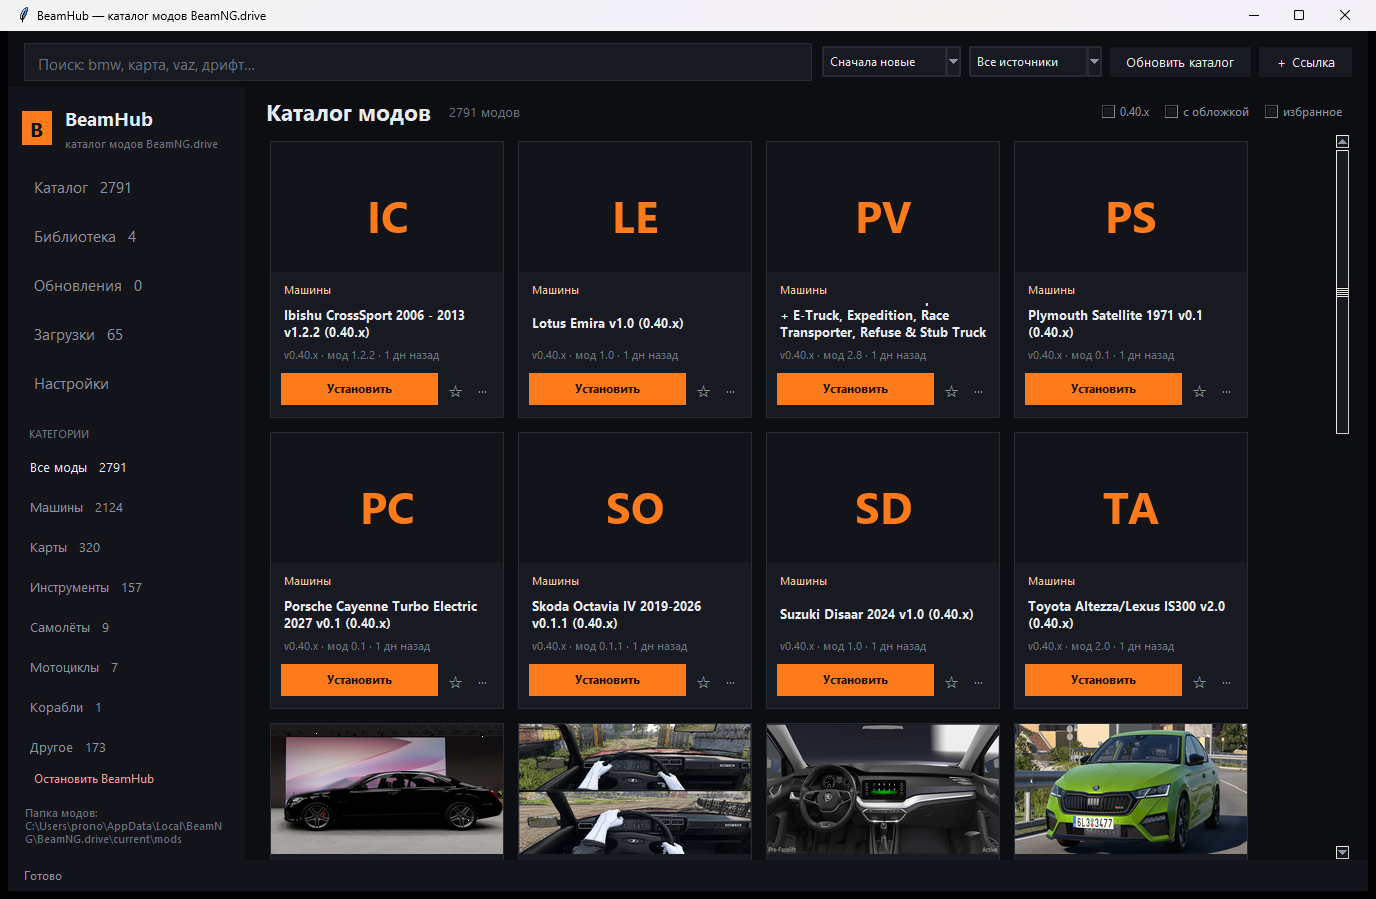
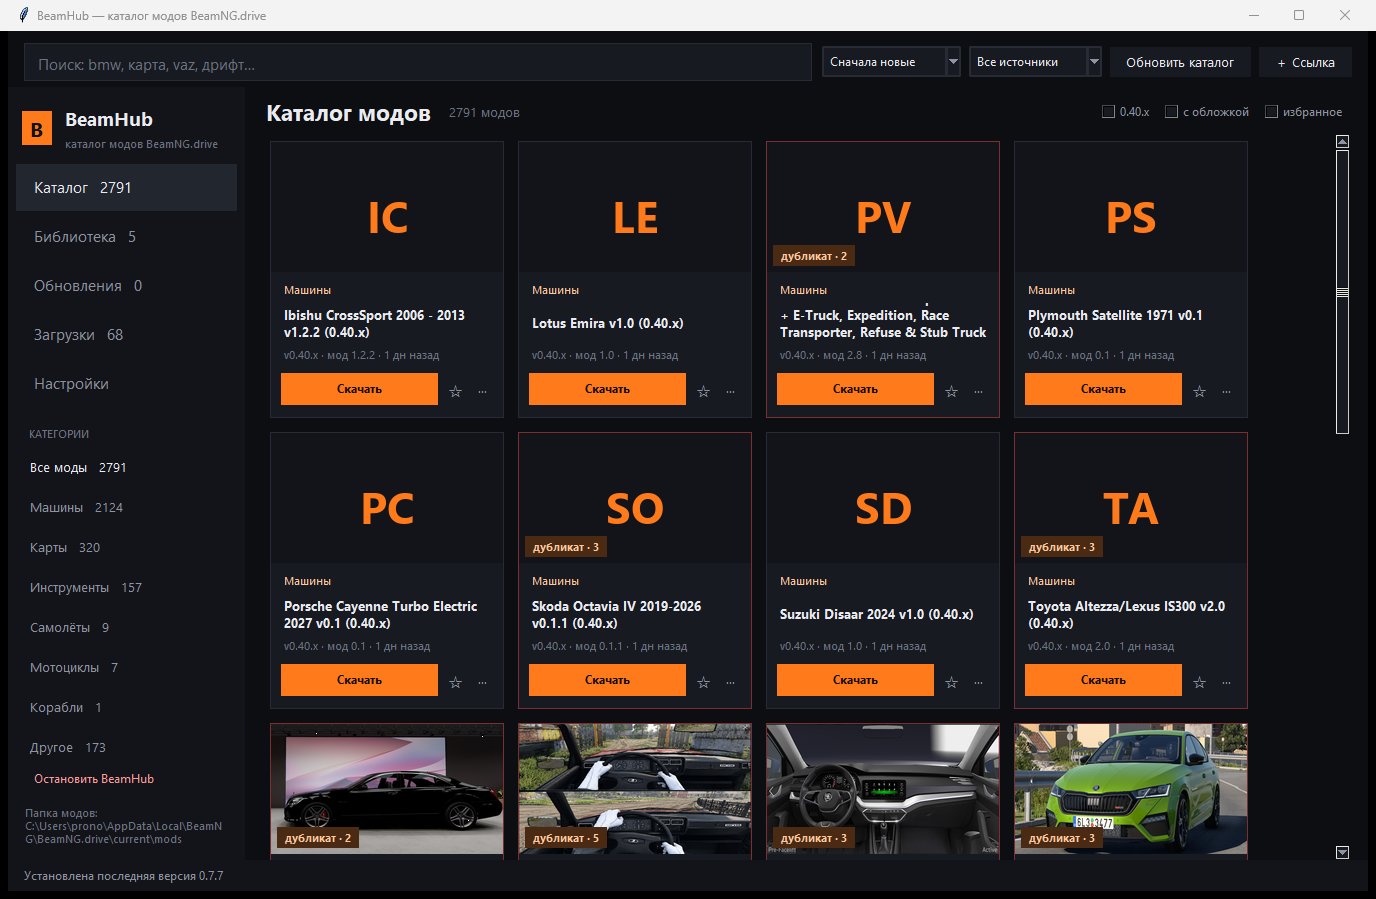
BeamHub 0.7.7: честные формулировки — кнопка Скачать, скачивание идёт браузером

diff --git a/web/app.js b/web/app.js
@@ -90,7 +90,7 @@ function card(item) {
   body.appendChild(meta);
 
   const actions = el('div', 'card-actions');
-  const installBtn = el('button', 'btn small', item.installed ? 'Установить снова' : 'Установить');
+  const installBtn = el('button', 'btn small', item.installed ? 'Скачать снова' : 'Скачать');
   installBtn.dataset.role = 'install';
   installBtn.addEventListener('click', () => installMod(item, installBtn));
   const detailsBtn = el('button', 'icon-btn', 'i');
@@ -175,7 +175,7 @@ function markInstalled(id) {
       node.querySelector('.card-img')?.appendChild(badge);
     }
     const button = node.querySelector('[data-role="install"]');
-    if (button) { button.disabled = false; button.textContent = 'Установить снова'; }
+    if (button) { button.disabled = false; button.textContent = 'Скачать снова'; }
     const details = node.querySelector('.icon-btn');
     if (details) details.disabled = false;
   });
@@ -203,7 +203,7 @@ async function openDetails(id) {
         </div>
         <div class="modal-desc">${esc(item.description || 'Описание на странице мода.')}</div>
         <div class="modal-actions">
-          <button class="btn" id="m-install">Установить</button>
+          <button class="btn" id="m-install">Скачать</button>
           <button class="btn ghost" id="m-page">Открыть страницу</button>
         </div>
       </div>`;
@@ -283,7 +283,7 @@ async function loadInbox() {
         row.valid ? (row.kind === 'maps' ? 'карта' : row.kind === 'cars' ? 'машина' : 'мод') : 'не мод');
       node.appendChild(kindPill);
       const actions = el('div', 'row-actions');
-      const install = el('button', 'btn small', 'Установить');
+      const install = el('button', 'btn small', 'Скачать');
       install.disabled = !row.valid;
       install.addEventListener('click', async () => {
         install.disabled = true;

diff --git a/core/tkui.py b/core/tkui.py
@@ -422,7 +422,7 @@ class App:
 
         actions = tk.Frame(card, bg=PANEL)
         actions.pack(fill="x", padx=10, pady=(8, 10))
-        text = "Установлен" if item.get("installed") else "Установить"
+        text = "Установлен" if item.get("installed") else "Скачать"
         button = tk.Button(actions, text=text, bg=ACCENT, fg="#1a0f04", relief="flat",
                            font=("Segoe UI", 9, "bold"), cursor="hand2",
                            activebackground="#ff9350", command=lambda i=item, b=None: self.install(i))
@@ -561,7 +561,7 @@ class App:
 
         buttons = tk.Frame(window, bg=BG)
         buttons.pack(fill="x", padx=18, pady=(0, 16))
-        tk.Button(buttons, text="Установить", bg=ACCENT, fg="#1a0f04", relief="flat",
+        tk.Button(buttons, text="Скачать", bg=ACCENT, fg="#1a0f04", relief="flat",
                   font=("Segoe UI", 10, "bold"), padx=18, pady=6, cursor="hand2",
                   command=lambda: self.install(item)).pack(side="left")
         tk.Button(buttons, text="Открыть страницу", bg=PANEL, fg=TEXT, relief="flat",

diff --git a/app.py b/app.py
@@ -641,7 +641,8 @@ class Handler(BaseHTTPRequestHandler):
             return
         open_in_browser(url)
         self._json({"ok": True, "mode": "browser", "opened": url,
-                    "message": "Открыл браузер. Как только архив докачается, BeamHub поставит его сам."})
+                    "message": "Открыл страницу мода в браузере. Нажми там «Скачать» — "
+                               "как только архив докачается, BeamHub поставит его сам."})
 
 
 # ---------------------------------------------------------------- startup

diff --git a/core/version.py b/core/version.py
@@ -1,6 +1,6 @@
 """Единственный источник версии приложения."""
 
-VERSION = "0.7.6"
+VERSION = "0.7.7"
 APP_NAME = "BeamHub"
 
 

diff --git a/README.md b/README.md
@@ -2,7 +2,7 @@
 
 # BeamHub — лаунчер-каталог модов для BeamNG.drive
 
-**Один каталог вместо десяти вкладок с файлообменниками.** Ищешь мод, жмёшь «Установить» — BeamHub сам скачивает архив, проверяет его и кладёт в папку игры.
+**Один каталог вместо десяти вкладок с файлообменниками.** Находишь мод, жмёшь «Скачать» — открывается страница мода, архив качает браузер (сайты не отдают файлы скриптам), а BeamHub подхватывает его из «Загрузок», проверяет и кладёт в папку игры. Дальше — библиотека, включение/выключение и проверка обновлений.
 
 [![Release](https://img.shields.io/github/v/release/Owiom/beamhub?style=flat-square)](https://github.com/Owiom/beamhub/releases/latest)
 [![Downloads](https://img.shields.io/github/downloads/Owiom/beamhub/total?style=flat-square)](https://github.com/Owiom/beamhub/releases)
@@ -21,7 +21,7 @@
 | **2791 мод с четырёх сайтов** | modsgaming.ru, playground.ru, beamngland.com, beamngmods.net — в одном каталоге |
 | **Категории и сортировки** | машины, карты, инструменты, самолёты, мотоциклы; новые, по названию, по размеру, по популярности |
 | **Поиск** | по названию, описанию и автору, с фильтрами «0.40.x», «с обложкой», «избранное» |
-| **Установка в один клик** | архив скачивается, проверяется и попадает в `mods` игры; дубликаты по хешу не ставятся |
+| **Скачал — дальше само** | жмёшь «Скачать», браузер получает архив, BeamHub подхватывает его из «Загрузок», проверяет и кладёт в `mods`; дубликаты по хешу не ставятся |
 | **Дубликаты** | один и тот же мод с разных сайтов помечается прямо в каталоге, в библиотеке — красной строкой |
 | **Уже установленные моды** | библиотека сканирует папку игры и привязывает старые моды к каталогу по названию и размеру — для них тоже работают обновления |
 | **Обновление на месте** | новая версия заменяет старый файл, а не добавляет второй |
@@ -58,7 +58,7 @@ Python и ничего больше ставить не нужно: внутри
 
 ## Как это работает
 
-1. Жмёшь **«Установить»** на карточке.
+1. Жмёшь **«Скачать»** на карточке — открывается страница мода в браузере.
 2. Открывается страница мода в браузере — сайты отдают файл только после проверки Cloudflare, обойти её нельзя. Нажимаешь там «Скачать».
 3. BeamHub слушает папку загрузок: увидел новый `.zip` — проверил структуру (`levels/`, `vehicles/`, `info.json`), срезал лишнюю обёртку, посчитал хеш и положил в папку игры.
 4. В строке состояния — «Установлено: …», мод сразу в библиотеке.

diff --git a/PROMO.md b/PROMO.md
@@ -13,7 +13,7 @@
 **Description** (Settings → General → Description):
 
 ```
-Каталог модов для BeamNG.drive: 2791 мод с четырёх сайтов, установка в один клик, библиотека, обновления. Windows, .exe
+Каталог модов для BeamNG.drive: 2791 мод с четырёх сайтов, установка без ручного распаковывания, библиотека, обновления. Windows, .exe
 ```
 
 **Topics** (Settings → Topics, копируй списком):
@@ -75,7 +75,8 @@ beamng beamngdrive beamng-drive mods mod-manager launcher mod-catalog gaming-too
 >
 > - ~2800 mods from modsgaming.ru, playground.ru, beamngland.com, beamngmods.net
 > - categories, search, filters by game version, favorites, duplicate detection
-> - one click → archive is validated, repacked if needed, placed into the mods folder
+> - install: you press Download, the browser fetches the file, the app validates the
+>   archive, repacks it if needed and places it into the mods folder
 > - library with enable/disable/delete and "update available" badges
 > - portable exe, MIT, source on GitHub: https://github.com/Owiom/beamhub
 >
@@ -94,7 +95,7 @@ beamng beamngdrive beamng-drive mods mod-manager launcher mod-catalog gaming-too
 
 **Короткий текст:**
 
-> Сделал каталог-лаунчер модов для BeamNG: 2791 мод с четырёх сайтов, установка в один клик,
+> Сделал каталог-лаунчер модов для BeamNG: 2791 мод с четырёх сайтов, скачал — и мод уже стоит,
 > библиотека и поиск дубликатов. Portable exe, MIT, без регистрации.
 > https://github.com/Owiom/beamhub — буду рад баг-репортам.
 
@@ -112,7 +113,7 @@ beamng beamngdrive beamng-drive mods mod-manager launcher mod-catalog gaming-too
 > Что умеет:
 > • 2791 мод с modsgaming, playground, beamngland и beamngmods в одном окне
 > • категории, поиск, фильтры по версии игры, избранное
-> • установка в один клик: архив проверяется, лишняя папка-обёртка срезается,
+> • скачал → поставилось само: архив проверяется, лишняя папка-обёртка срезается,
 >   дубликаты по хешу не ставятся
 > • библиотека: включить/выключить/удалить, метки «обновление» и «дубликат»
 > • обновляется сам через GitHub Releases

diff --git a/README.en.md b/README.en.md
@@ -2,7 +2,7 @@
 
 # BeamHub — mod catalog & launcher for BeamNG.drive
 
-**One catalog instead of ten file‑hosting tabs.** Find a mod, press *Install* — BeamHub downloads the archive, validates it and drops it into the game's `mods` folder.
+**One catalog instead of ten file‑hosting tabs.** Find a mod, press *Download*: the page opens, your browser fetches the archive (the sites won't hand files to a script), and BeamHub picks it up from the Downloads folder, validates it and copies it into the game's `mods`. From there: library, enable/disable, update checks.
 
 [![Release](https://img.shields.io/github/v/release/Owiom/beamhub?style=flat-square)](https://github.com/Owiom/beamhub/releases/latest)
 [![Downloads](https://img.shields.io/github/downloads/Owiom/beamhub/total?style=flat-square)](https://github.com/Owiom/beamhub/releases)
@@ -16,7 +16,7 @@
 - **2791 mods from 4 sites** — modsgaming.ru, playground.ru, beamngland.com, beamngmods.net — in a single window.
 - **Categories & sorting** — cars, maps, tools, planes, bikes; newest, by name, by size, by popularity.
 - **Search** with filters: game version `0.40.x`, “with cover”, “favorites”.
-- **One‑click install** — archive is validated, repacked if it has a wrapper folder, deduplicated by SHA‑256 and copied into the game.
+- **Download once, installed automatically** — you press *Download*, the browser fetches the file, and BeamHub validates the archive, strips a wrapper folder, dedupes by SHA‑256 and copies it into the game.
 - **Duplicate detection** — the same mod from different sites is marked in the catalog and highlighted in the library.
 - **Library** — enable / disable / delete, “update available” badges.
 - **Favorites** and a dedicated **Updates** tab.
